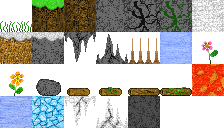
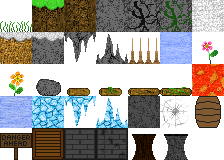
fixed clipping errors, added glow crystals, and added ice cave

diff --git a/map/generators/ice_cave.py b/map/generators/ice_cave.py
@@ -1,0 +1,40 @@
+from random import randint
+from util import TILE_SIZE, HEIGHT
+from map.tile import *
+from render.lighting import Light
+
+
+def generate_ice_cave_main():
+    tile_map, lights = [], []
+    prev_height = 3
+    top, bottom = 7, 3
+    for i in range(0, 80):
+        height = prev_height + randint(-1, 1)
+        if height < bottom:
+            height = prev_height + 1
+        elif height > top:
+            height = prev_height - 1
+        prev_height = height
+        tile_map.append(Tile(i * TILE_SIZE, 3 * TILE_SIZE, *TileSet.ICE_ROCK, repeat_y=height))
+        rand_len = randint(0, 3)
+        tile_map.append(Tile(i * TILE_SIZE, (17 - rand_len) * TILE_SIZE, *TileSet.ICE_ROCK, repeat_y=rand_len))
+        if randint(0, 1) == 0:
+            tile_map.append(Tile(i * TILE_SIZE, (16 - rand_len) * TILE_SIZE, *TileSet.ICE_STALACTITE, collidable=False))
+        if randint(0, 2) == 0:
+            tile_map.append(Tile(i * TILE_SIZE, (3 + height) * TILE_SIZE, *TileSet.ICE_STALAGMITE, collidable=False))
+        elif randint(0, 8) == 0:
+            tile_map.append(SpriteTile(
+                'blue_crystal.png', i * TILE_SIZE, (3 + height) * TILE_SIZE, TILE_SIZE, TILE_SIZE,
+                frames=5, collidable=False
+            ))
+            lights.append(Light((i - 3) * TILE_SIZE + 16, HEIGHT - ((height + 6) * TILE_SIZE + 16), (191, 229, 255), spread=6))
+    for i in range(0, 5):
+        if i % 2 == 0:
+            tile_map.append(Tile((i + 80) * TILE_SIZE, 3 * TILE_SIZE, *TileSet.ICE_ROCK, repeat_x=2, repeat_y=prev_height + i // 2))
+            tile_map.append(Tile((i + 80) * TILE_SIZE, ((10 + prev_height) - i // 2) * TILE_SIZE, *TileSet.ICE_ROCK, repeat_x=2, repeat_y=20))
+    tile_map.extend([
+        Tile(86 * TILE_SIZE, 0, *TileSet.ICE_ROCK, repeat_x=8, repeat_y=5 + prev_height),
+        Tile(86 * TILE_SIZE, (8 + prev_height) * TILE_SIZE, *TileSet.ICE_ROCK, repeat_x=8, repeat_y=18),
+        Tile(85 * TILE_SIZE, (5 + prev_height) * TILE_SIZE, *TileSet.STONE, repeat_x=8, repeat_y=3)
+    ])
+    return tile_map, lights

diff --git a/entity/entity.py b/entity/entity.py
@@ -42,7 +42,7 @@ class Entity:
         for key, func in zip(remove_keys, end_events):
             self.timers.pop(key)
             func()
-        self.position.x, self.position.y = int(self.position.x), int(self.position.y)
+        self.position.x, self.position.y = self.position.x, self.position.y
         self._handle_collide()
 
     def transform(self, **kwargs):
@@ -73,21 +73,21 @@ class Entity:
 
     def _handle_collide(self):
         # bottom collision
-        if self.position.y < self.y_range.min and self.force.y_mag <= 0:
+        if self.position.y <= self.y_range.min and self.force.y_mag <= 0:
             self.force.reset_y()
             self.position.y = self.y_range.min
 
         # top collision
-        if self.position.y + self._sprite.dimensions.y > self.y_range.max and self.force.y_mag >= 0:
+        if self.position.y + self._sprite.dimensions.y >= self.y_range.max and self.force.y_mag >= 0:
             self._compute_top_collision()
 
         # left collision
-        if self.position.x < self.x_range.min and self.force.x_mag <= 0:
+        if self.position.x <= self.x_range.min and self.force.x_mag <= 0:
             self.force.reset_x()
             self.position.x = self.x_range.min
 
         # right collision
-        if self.position.x + self._sprite.dimensions.x > self.x_range.max and self.force.x_mag >= 0:
+        if self.position.x + self._sprite.dimensions.x >= self.x_range.max and self.force.x_mag >= 0:
             self.force.reset_x()
             self.position.x = self.x_range.max - self._sprite.dimensions.x
 

diff --git a/states/main_state.py b/states/main_state.py
@@ -39,9 +39,9 @@ class MainState:
         self._pause_menu = None
         self._paused = False
         self._gloom = True
-        self._teleport('LAVA_CAVE')
         self.lights = []
         am.play_music('overworld.mp3', volume=0.1, loop=True)
+        self._teleport('LAVA_CAVE')
 
     def update(self):
         self.window.clear((50, 50, 60) if self._gloom else (119, 171, 255))
@@ -114,7 +114,10 @@ class MainState:
 
         self._cool_down_bar.update(self.player)
 
-        self.window.set_window_offset(-(self.player.position.x - WIDTH / 2), (self.player.position.y - PLAYER_SPAWN))
+        x_shift = 0
+        if self.player.swinging and not self.player.flip_horizontal:
+            x_shift = 25
+        self.window.set_window_offset(-(self.player.position.x - WIDTH / 2) - x_shift, (self.player.position.y - PLAYER_SPAWN))
 
         # trim dead entities
         self.entities = [x for x in self.entities if x.health > 0 or isinstance(x, Player)]
@@ -173,5 +176,8 @@ class MainState:
         elif destination == 'ICE_CAVE':
             am.stop_music()
             am.play_music('ice_cave.mp3', volume=0.3, loop=True)
-
+            self.player.position.x, self.player.position.y = 2 * TILE_SIZE, 9 * TILE_SIZE
+            self.tile_map, self.lights = generate.generate_ice_cave()
+            self.entities = self.entities[:1]
+            self._teleporter = Teleporter(84 * TILE_SIZE, 8 * TILE_SIZE, 4, 4, 'FINAL_ROOM')
 

diff --git a/map/generate.py b/map/generate.py
@@ -1,6 +1,7 @@
 from .generators.overworld import *
 from .generators.first_cave import *
 from .generators.lava_cave import *
+from .generators.ice_cave import *
 
 
 def generate_easy_over_world():
@@ -43,3 +44,19 @@ def generate_lava_cave():
     tile_map.extend(cave)
     return tile_map, lights
 
+
+def generate_ice_cave():
+    tile_map = [
+        Tile(0, 0, *TileSet.ICE_ROCK, repeat_x=90, repeat_y=3),
+        Tile(0, 17 * TILE_SIZE, *TileSet.ICE_ROCK, repeat_x=80, repeat_y=7),
+        Tile(-10 * TILE_SIZE, 0, *TileSet.ICE_ROCK, repeat_x=10, repeat_y=9),
+        Tile(-10 * TILE_SIZE, 14 * TILE_SIZE, *TileSet.ICE_ROCK, repeat_x=10, repeat_y=10)
+    ]
+    for i in range(-10, 0):
+        if randint(0, 2) == 0:
+            tile_map.append(Tile(i * TILE_SIZE, 9 * TILE_SIZE, *TileSet.ICE_STALAGMITE))
+        if randint(0, 2) == 0:
+            tile_map.append(Tile(i * TILE_SIZE, 13 * TILE_SIZE, *TileSet.ICE_STALACTITE))
+    main, lights = generate_ice_cave_main()
+    tile_map.extend(main)
+    return tile_map, lights

diff --git a/map/generators/lava_cave.py b/map/generators/lava_cave.py
@@ -1,5 +1,5 @@
 from map.tile import *
-from util import TILE_SIZE
+from util import TILE_SIZE, HEIGHT
 from random import randint
 from render.lighting import Light
 
@@ -26,9 +26,13 @@ def generate_lava_cave_gaps():
                     height = prev_height + 1
                 tile_map.append(Tile((counter + i) * TILE_SIZE, 0, *TileSet.STONE, repeat_y=height))
                 prev_height = height
+                if randint(0, 4) == 0:
+                    tile_map.append(SpriteTile('pink_crystal.png', (counter + i) * TILE_SIZE, prev_height * TILE_SIZE,
+                                               TILE_SIZE, TILE_SIZE, frames=5, collidable=False))
+                    lights.append(Light((counter + i - 2.5) * TILE_SIZE, (HEIGHT - height * TILE_SIZE - 112), (247, 191, 255), spread=6))
+
             counter += plat_len
         gap = not gap
-
     tile_map.append(Tile(0, ceil_height * TILE_SIZE, *TileSet.STONE, repeat_x=counter, repeat_y=16))
 
     for i in range(1, counter):

diff --git a/entity/collision.py b/entity/collision.py
@@ -50,9 +50,19 @@ def calculate_y_range(entity, others):
             rng.min = other.top
         elif entity_box.top <= other.bottom < rng.max:
             rng.max = other.bottom
+    for other in others:
+        if y_colliding(entity, other) and other.collidable:
+            rng.min = _create_bounding_box(other).top
     return rng
 
 
 def colliding(entity, other):
     box1, box2 = _create_bounding_box(entity), _create_bounding_box(other)
     return box1 in box2
+
+
+def y_colliding(entity, other):
+    box1, box2 = _create_bounding_box(entity), _create_bounding_box(other)
+    if box1.left < box2.left < box1.right or box1.left < box2.right < box1.right:
+        return box1.bottom <= box2.bottom <= box1.top or box1.bottom <= box2.top <= box1.top
+    return False

diff --git a/entity/player.py b/entity/player.py
@@ -37,10 +37,14 @@ class Player(GravityEntity):
         self.animation_state = self.PlayerStates.SWINGING
         self.swinging = True
         self.set_timer('swing', 10, self._reset_swing)
+        if not self.flip_horizontal:
+            self.position.x -= 25
 
     def _reset_swing(self):
         self.animation_state = self.PlayerStates.IDLE
         self.swinging = False
+        if not self.flip_horizontal:
+            self.position.x += 25
 
     def jump(self):
         if self.force.y_mag == 0:
